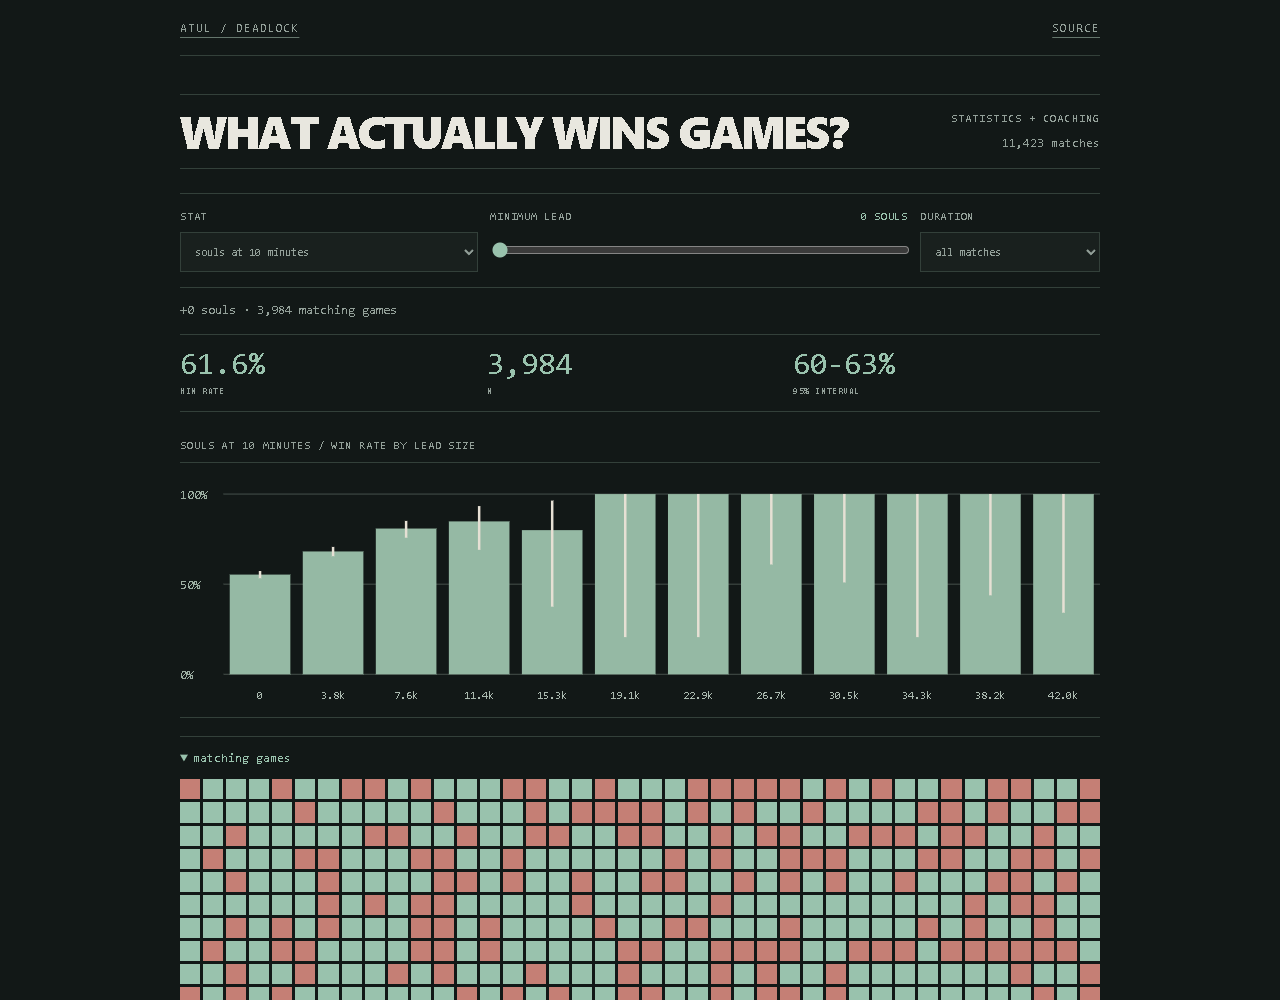
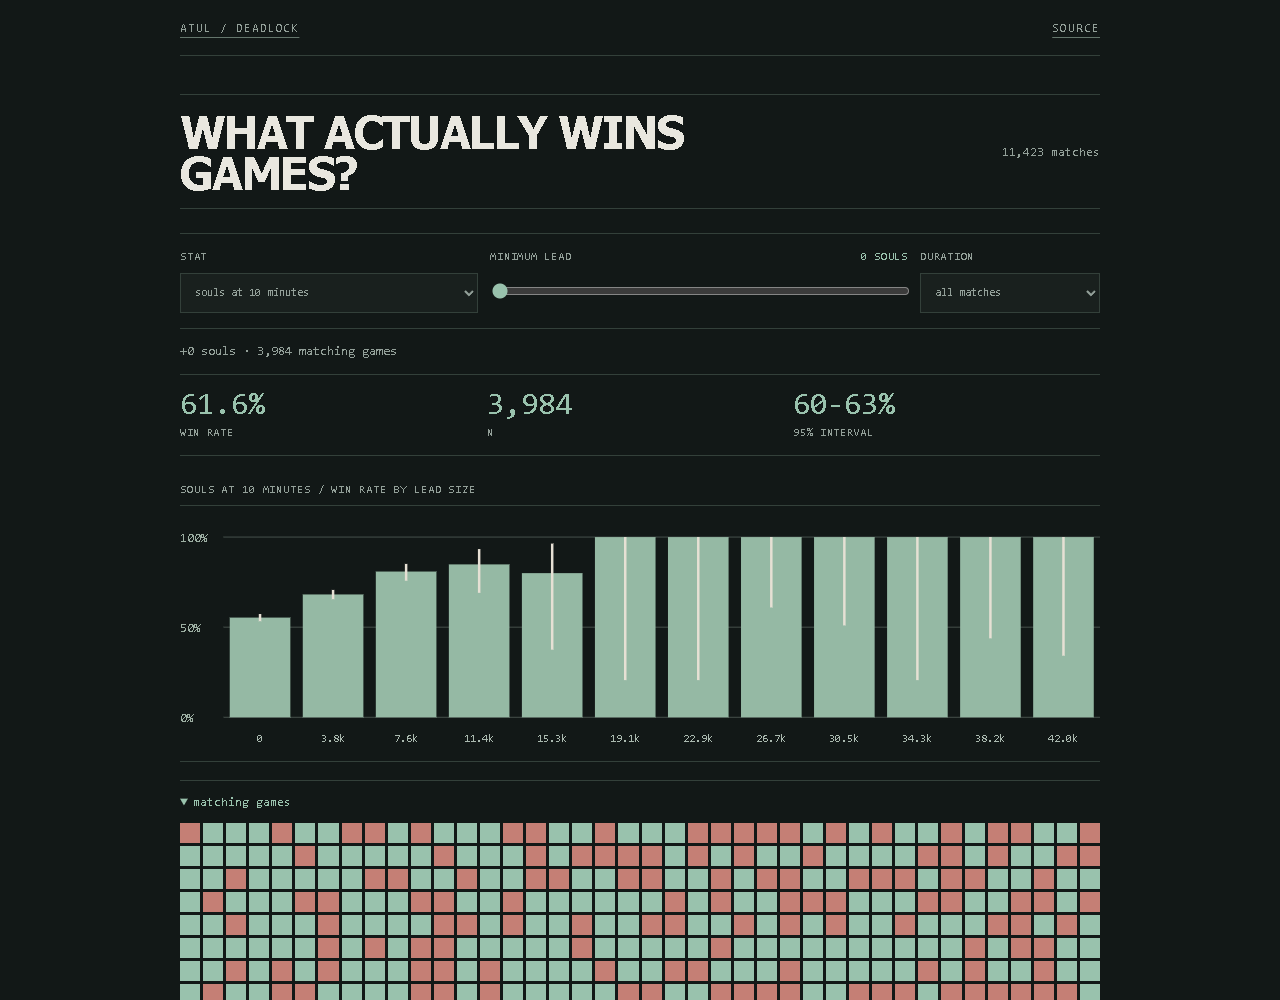
Sharpen the Deadlock analysis workbench

diff --git a/examples/portfolio/identity.css b/examples/portfolio/identity.css
@@ -1,2 +1,19 @@
-/* match telemetry: numbers lead, decoration gets out of the way */
-body{font-family:ui-monospace,Consolas,"Segoe UI",monospace}header{height:56px;text-transform:uppercase;letter-spacing:.08em}main{padding:38px 0 46px}.hero{grid-template-columns:1fr 230px;margin-bottom:24px;padding:16px 0;border-block:1px solid var(--line)}.hero p{grid-column:2;grid-row:1;margin:0;align-self:start;text-align:right}.hero h1{grid-column:1;grid-row:1;font:800 45px/.9 "Segoe UI",Arial,sans-serif;letter-spacing:-.055em;text-transform:uppercase}.hero>span{grid-column:2;grid-row:1;align-self:end;text-align:right}.controls{padding-block:15px}.controls select{min-height:40px}.answer{margin:12px 0}.result{margin:14px 0 26px}.result div{padding:13px 0}.result strong{font-family:ui-monospace,Consolas,monospace;font-size:31px}.result span{font-size:9px}.chart h2{font-family:ui-monospace,Consolas,monospace}#chart{margin-top:7px}details{margin-top:18px;padding-bottom:12px}summary{padding:12px 0}@media(max-width:650px){main{padding:29px 0 38px}.hero{display:block}.hero p,.hero>span{text-align:left}.hero h1{margin:9px 0 13px;font-size:36px}.controls{grid-template-columns:1fr 1fr}.result strong{font-size:23px}}
+/* Match telemetry: numbers lead, decoration gets out of the way. */
+body{font-family:ui-monospace,Consolas,"Segoe UI",monospace}
+header{height:56px;text-transform:uppercase;letter-spacing:.08em}
+main{padding:38px 0 46px}
+.hero{grid-template-columns:1fr 230px;margin-bottom:24px;padding:16px 0;border-block:1px solid var(--line)}
+.hero h1{grid-column:1;grid-row:1;font:800 45px/.9 Tahoma,"Arial Narrow",sans-serif;letter-spacing:-.035em;text-transform:uppercase}
+.hero>span{grid-column:2;grid-row:1;align-self:center;text-align:right}
+.controls{padding-block:15px}
+.controls select{min-height:40px}
+.answer{margin:12px 0}
+.result{margin:14px 0 26px}
+.result div{padding:13px 0}
+.result strong{font-family:ui-monospace,Consolas,monospace;font-size:31px}
+.result span{font-size:11px}
+.chart h2{font-family:ui-monospace,Consolas,monospace}
+#chart{margin-top:7px}
+details{margin-top:18px;padding-bottom:12px}
+summary{padding:12px 0}
+@media(max-width:650px){main{padding:29px 0 38px}.hero{display:block}.hero>span{text-align:left}.hero h1{margin:0 0 13px;font-size:36px}.controls{grid-template-columns:1fr 1fr}.result strong{font-size:23px}}

diff --git a/examples/portfolio/index.html b/examples/portfolio/index.html
@@ -1,7 +1,7 @@
-<!doctype html><html lang="en"><head><meta charset="utf-8"><meta name="viewport" content="width=device-width,initial-scale=1"><title>deadlock / conditional win rate</title><link rel="stylesheet" href="style.css"><link rel="stylesheet" href="identity.css"></head><body>
+<!doctype html><html lang="en"><head><meta charset="utf-8"><meta name="viewport" content="width=device-width,initial-scale=1"><title>deadlock / conditional win rate</title><link rel="icon" href="favicon.svg" type="image/svg+xml"><link rel="stylesheet" href="style.css"><link rel="stylesheet" href="identity.css"></head><body>
 <header><a href="https://lolstar123.github.io/just-a-little-further/">atul / deadlock</a><a href="https://github.com/LolStar123/deadlock-match-analysis">source</a></header>
 <main>
-<section class="hero"><p>statistics + coaching</p><h1>what actually wins games?</h1><span id="scope">loading matches…</span></section>
+<section class="hero"><h1>what actually wins games?</h1><span id="scope">loading matches…</span></section>
 <section class="controls"><label>stat<select id="metric"></select></label><label>minimum lead <strong id="lead-label"></strong><input id="threshold" type="range" min="0" max="20000" step="1000" value="0"></label><label>duration<select id="duration"><option value="0,120">all matches</option><option value="0,25">under 25m</option><option value="25,40">25–40m</option><option value="40,120">40m+</option></select></label></section>
 <p id="answer" class="answer" aria-live="polite"></p><p id="context" hidden></p>
 <section class="result"><div><strong id="win-rate">…</strong><span>win rate</span></div><div><strong id="sample">…</strong><span>n</span></div><div><strong id="interval">…</strong><span>95% interval</span></div></section>

diff --git a/DESIGN.md b/DESIGN.md
@@ -1,0 +1,15 @@
+# Deadlock analysis demo design
+
+The page answers one question at a time: when a team leads in a measurable stat, how often does it win?
+
+The interface uses the real 11,423-match census. A stat selector, minimum lead and duration filter define the cohort. The answer, sample size and Wilson interval appear before the distribution, so a large percentage cannot hide a tiny sample. Matching games remain inspectable and exportable.
+
+The visual language borrows Deadlock's murky green and red without copying its HUD. Monospace labels make the page feel like match telemetry; the large blunt headline keeps it understandable to someone who has never played.
+
+Rules:
+
+- One game is one observation.
+- Missing checkpoints and ties stay excluded.
+- End-state statistics are clearly labelled as associations.
+- Sample size and uncertainty stay beside every win rate.
+- Desktop and mobile must expose the same controls without horizontal overflow.
